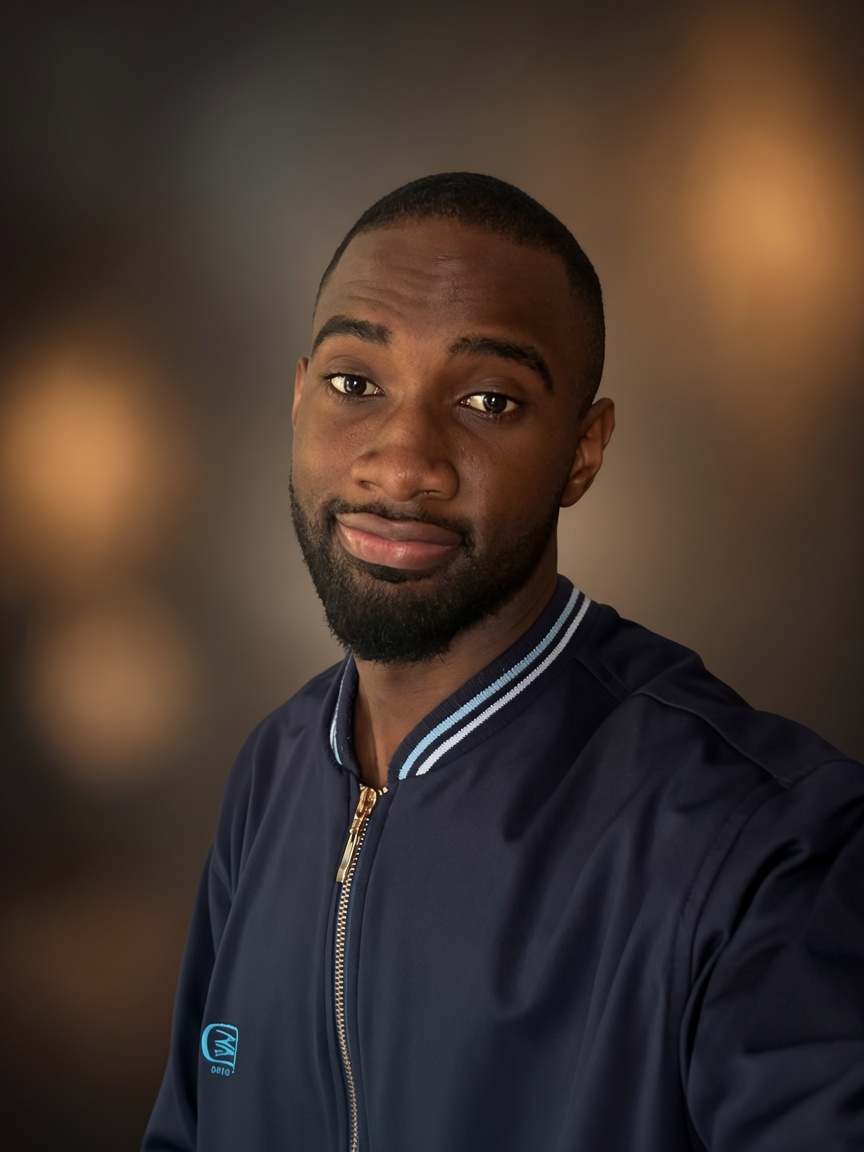
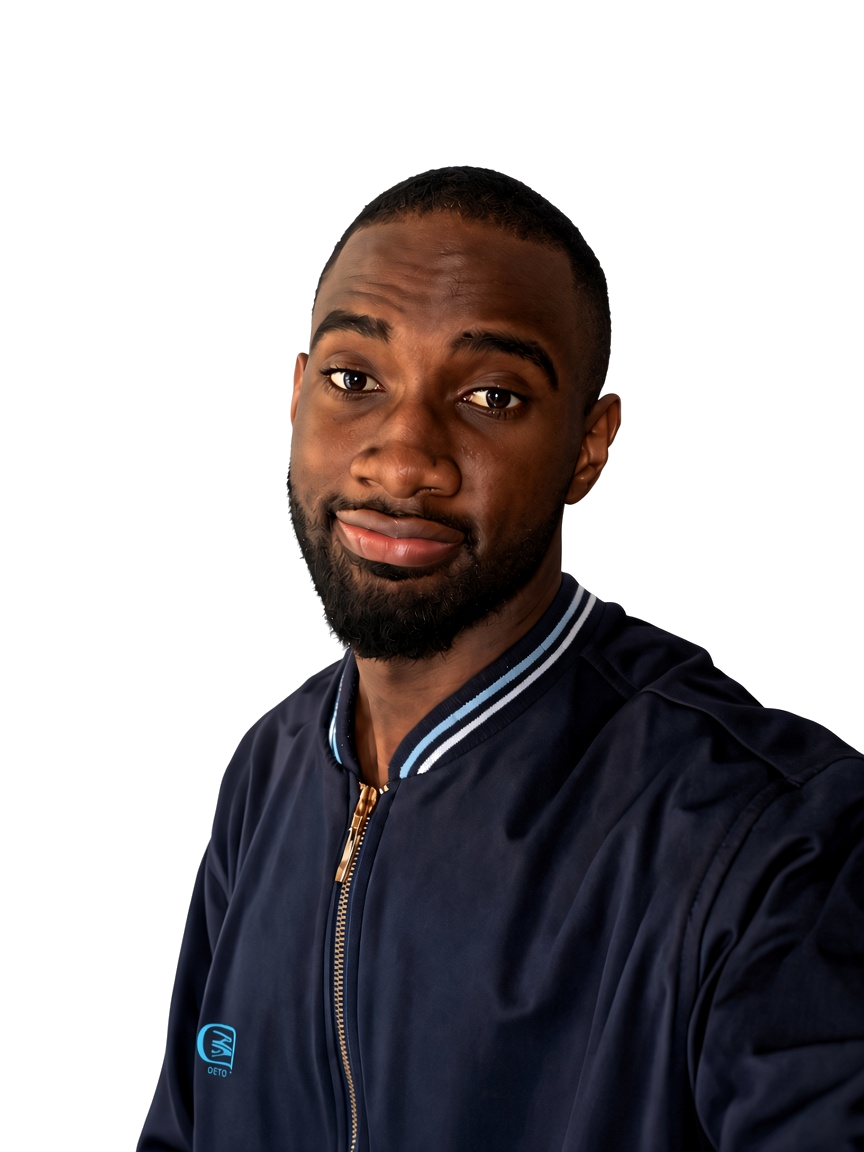
Update portraits with transparent backgrounds so About and Contact blend into the page.

diff --git a/site/styles.css b/site/styles.css
@@ -377,10 +377,13 @@ a {
 .about-photo,
 .contact-photo {
   margin: 0;
-  border-radius: var(--radius);
-  overflow: hidden;
-  box-shadow: var(--shadow);
+  border: none;
+  border-radius: 0;
+  overflow: visible;
+  box-shadow: none;
+  outline: none;
   aspect-ratio: 4 / 5;
+  background: transparent;
 }
 
 .about-photo img,
@@ -388,6 +391,19 @@ a {
   width: 100%;
   height: 100%;
   object-fit: cover;
+  background: transparent;
+  border: none;
+  border-radius: 0;
+  box-shadow: none;
+}
+
+.about-photo img {
+  object-position: center top;
+}
+
+.contact-photo img {
+  object-fit: contain;
+  object-position: center bottom;
 }
 
 .project-list {
